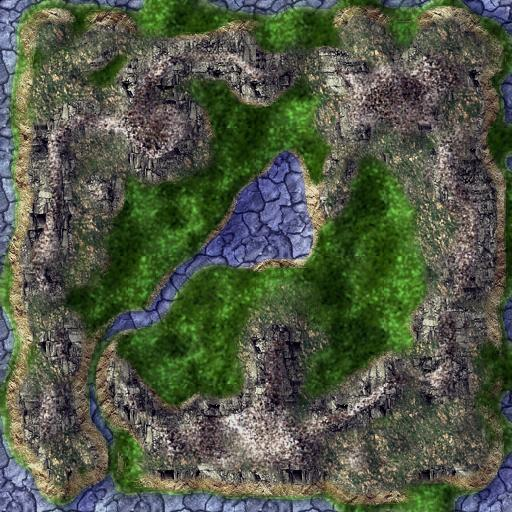
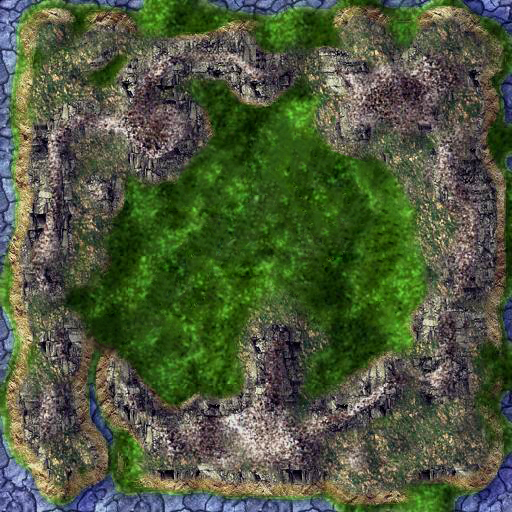
Tweaks in the terrain and blimp textures

Changed region(s): [[0.1562, 0.2188, 0.8125, 0.7188]]

diff --git a/src/blimp/MyVehicle.js b/src/blimp/MyVehicle.js
@@ -1,18 +1,24 @@
 class MyVehicle extends CGFobject {
-    constructor(scene) {
+    constructor(scene, positionY = 10) {
         super(scene);
-
         this.init();
         this.initMovement();
+        
+        this.positionY = positionY;
     }
 
     init() {
-        this.balloon = new MySphere(this.scene, 20, 10);
+        this.texture = new CGFtexture(this.scene, "../resources/blimp/ussr_blimp.png");
+        this.material = new CGFappearance(this.scene);
+        this.material.setTexture(this.texture);
+        this.material.setTextureWrap('REPEAT', 'REPEAT');
+
+        this.balloon = new MySphere(this.scene, 20, 10, this.material);
         this.mainCockpit = new MyCylinder(this.scene, 20);
         this.cockpitSide = new MySphere(this.scene, 10, 10);
-        this.wing = new Wing(this.scene);
+        this.wing = new MyWing(this.scene);
         this.turbineHolder = new MySphere(this.scene, 10, 10);
-        this.turbine = new Turbine(this.scene, 10, 10);
+        this.turbine = new MyTurbine(this.scene, 10, 10);
     }
 
     // Movement method
@@ -66,7 +72,7 @@ class MyVehicle extends CGFobject {
         this.turningValue = 0;
 
         if (this.scene.customMovement) {
-            this.friction = this.speed * -0.08;
+            this.friction = this.speed * -0.009;
             this.speed += this.friction;
         }
 
@@ -80,7 +86,7 @@ class MyVehicle extends CGFobject {
         /* movement */
         this.scene.pushMatrix();
 
-        this.scene.translate(this.positionX, 0, this.positionZ);
+        this.scene.translate(this.positionX, this.positionY, this.positionZ);
         this.scene.rotate(this.yyangle, 0, 1, 0);
 
         this.displayObject();

diff --git a/src/MySphere.js b/src/MySphere.js
@@ -5,10 +5,11 @@ class MySphere extends CGFobject {
      * @param  {integer} slices - number of slices around Y axis
      * @param  {integer} stacks - number of stacks along Y axis, from the center to the poles (half of sphere)
      */
-    constructor(scene, slices, stacks) {
+    constructor(scene, slices, stacks, material) {
         super(scene);
         this.latDivs = stacks * 2;
         this.longDivs = slices;
+        this.material = material;
 
         this.initBuffers();
     }
@@ -24,11 +25,6 @@ class MySphere extends CGFobject {
         this.normals = [];
         this.texCoords = [];
 
-        this.texture = new CGFtexture(this.scene, "../resources/earth.jpg");
-        this.material = new CGFappearance(this.scene);
-        this.material.setTexture(this.texture);
-        this.material.setTextureWrap('REPEAT', 'REPEAT');
-
         var phi = 0;
         var theta = 0;
         var phiInc = Math.PI / this.latDivs;
@@ -41,7 +37,7 @@ class MySphere extends CGFobject {
         for (let latitude = 0; latitude <= this.latDivs; latitude++) {
             var sinPhi = Math.sin(phi);
             var cosPhi = Math.cos(phi);
-            var s = 0.5;
+            var s = 0.55;
 
             // in each stack, build all the slices around, starting on longitude 0
             theta = 0;
@@ -87,7 +83,8 @@ class MySphere extends CGFobject {
     }
 
     display() {
-        this.material.apply();
+        if (typeof this.material !== 'undefined')
+            this.material.apply();
         super.display();
         this.scene.setDefaultAppearance();
     }

diff --git a/src/main.js b/src/main.js
@@ -2,8 +2,8 @@
 include = function () { function f() { var a = this.readyState; (!a || /ded|te/.test(a)) && (c--, !c && e && d()) } var a = arguments, b = document, c = a.length, d = a[c - 1], e = d.call; e && c--; for (var g, h = 0; c > h; h++)g = b.createElement("script"), g.src = arguments[h], g.async = !0, g.onload = g.onerror = g.onreadystatechange = f, (b.head || b.getElementsByTagName("head")[0]).appendChild(g) };
 serialInclude = function (a) { var b = console, c = serialInclude.l; if (a.length > 0) c.splice(0, 0, a); else b.log("Done!"); if (c.length > 0) { if (c[0].length > 1) { var d = c[0].splice(0, 1); b.log("Loading " + d + "..."); include(d, function () { serialInclude([]); }); } else { var e = c[0][0]; c.splice(0, 1); e.call(); }; } else b.log("Finished."); }; serialInclude.l = new Array();
 
-serialInclude(['../lib/CGF.js', 'MyScene.js', 'MyInterface.js', 'MySphere.js', 'MyCylinder.js', 'MyCubeMap.js', 'MyTerrain.js', 'MyPlane.js', 
-'blimp/MyVehicle.js', 'blimp/Wing.js', 'blimp/Turbine.js',
+serialInclude(['../lib/CGF.js', 'MyScene.js', 'MyInterface.js', 'MySphere.js', 'MyCylinder.js', 'MyCubeMap.js', 'terrain/MyTerrain.js', 'MyPlane.js', 
+'blimp/MyVehicle.js', 'blimp/MyWing.js', 'blimp/MyTurbine.js',
 
     main = function () {
         var app = new CGFapplication(document.body);

diff --git a/src/terrain/MyTerrain.js b/src/terrain/MyTerrain.js
@@ -9,7 +9,7 @@ class MyTerrain extends CGFobject {
         this.size = size;
         this.maxHeight = maxHeight;
 
-        this.terrainTex = new CGFtexture(this.scene, "../resources/terrain.jpg");
+        this.terrainTex = new CGFtexture(this.scene, "../resources/terrain.png");
         this.terrainMap = new CGFtexture(this.scene, "../resources/heightmap.jpg");
         this.material = new CGFappearance(this.scene);
         this.material.setTexture(this.terrainTex);
@@ -36,7 +36,6 @@ class MyTerrain extends CGFobject {
         this.terrainTex.bind(1);
         this.terrainMap.bind(2);
 
-        this.scene.translate(0, -10, 0);
         this.scene.scale(this.size, 1, this.size);
         this.scene.rotate(-Math.PI/2, 1, 0, 0);
 

diff --git a/src/MyScene.js b/src/MyScene.js
@@ -154,7 +154,7 @@ class MyScene extends CGFscene {
         // Apply transformations corresponding to the camera position relative to the origin
         this.applyViewMatrix();
 
-        this.lights[0].update();
+        //this.lights[0].update();
 
         // Draw axis
         if (this.displayAxis)

diff --git a/src/MyCubeMap.js b/src/MyCubeMap.js
@@ -115,7 +115,10 @@ class MyCubeMap extends CGFobject {
 
     display() {
         this.appearance.apply();
+        this.scene.pushMatrix();
+        this.scene.translate(0, -5, 0);
         super.display();
+        this.scene.popMatrix();
         this.scene.setDefaultAppearance();
     }
 }

diff --git a/src/blimp/MyWing.js b/src/blimp/MyWing.js
@@ -1,7 +1,7 @@
 /**
  * It's similar to a kid's home
  */
-class Wing extends CGFobject {
+class MyWing extends CGFobject {
     constructor(scene) {
         super(scene);
         this.initBuffers();

diff --git a/src/blimp/MyTurbine.js b/src/blimp/MyTurbine.js
@@ -1,4 +1,4 @@
-class Turbine extends CGFobject {
+class MyTurbine extends CGFobject {
     constructor(scene, slices, stacks) {
         super(scene);
 
